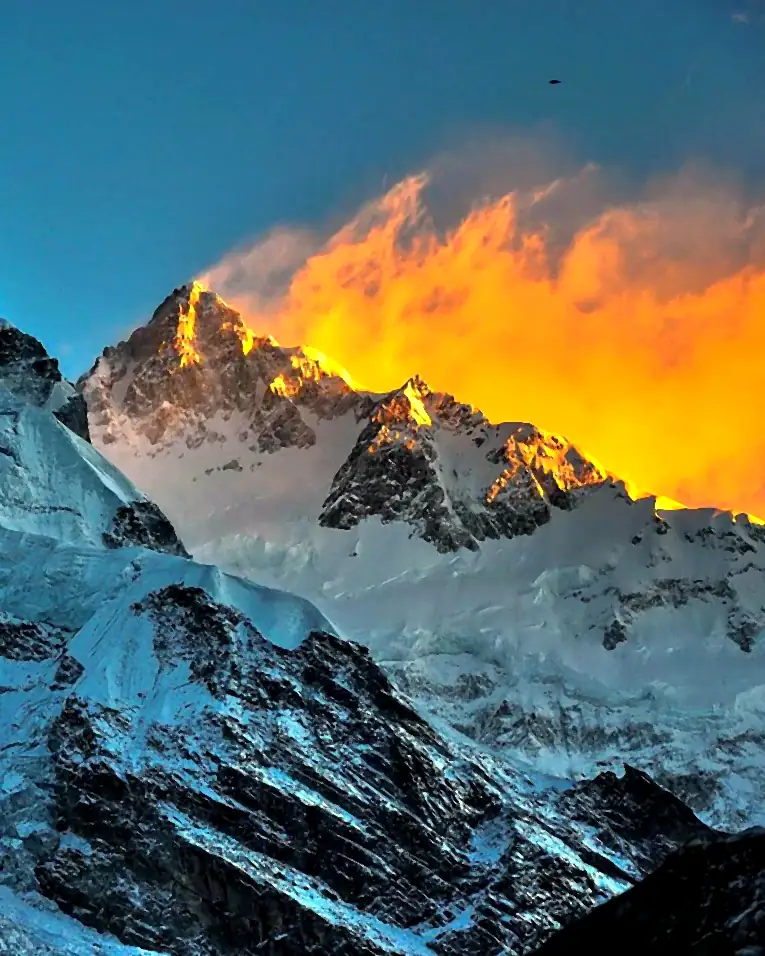
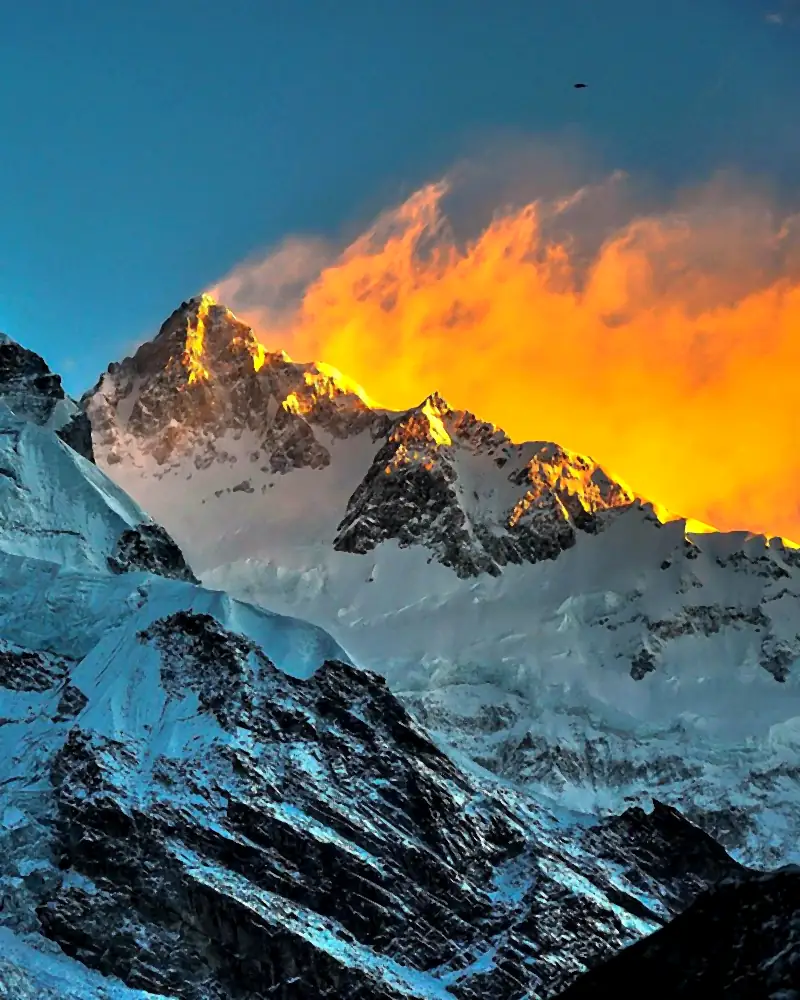
Фото поездок в высоком разрешении для ретины и телефонов
- Исходники семи поездок заменены на те же кадры в 1728–2400 px
  из репозиториев сайтов поездок (Патагония, Бали, Камбоджа, Китай,
  Канченджанга, Тибет, Ко Ронг). Дахаб остаётся 1350 px: больше
  исходника нет.
- Новые версии: 2400 для широких экранов с ретиной, 1200 для
  вертикального кадра на плотных экранах телефонов и для полос первого
  экрана (image-set). Браузер выбирает размер сам, обычные экраны
  получают прежние 1440 и 800.
- Шумоподавление перед снижением качества, чтобы не было блоков
  сжатия; у Бали (исходник пересвечен по резкости) поле soften 0.6
  убирает ореолы вокруг травы и пальм.
- Главы грузятся по мере прокрутки, первая тоже: она ниже первого экрана.
- Превью ссылки пересобрано из новых исходников.

Lighthouse mobile: Performance 91, Accessibility 100.

Claude-Session: https://claude.ai/code/session_01DHSb98UhaQtY4ABkNZchWn

diff --git a/index.html b/index.html
@@ -16,7 +16,7 @@
 <meta property="og:url" content="https://utromaya-code.github.io/travel-hub/">
 <meta property="og:title" content="Путешествия 2026–2027">
 <meta property="og:description" content="Авторские путешествия, 20 лет опыта: особые места, практики в дороге и небольшие группы. Дахаб, Патагония, Бали, Камбоджа, ретрит на Ко Ронге, Китай, Канченджанга и Тибет в сезоне 2026–2027.">
-<meta property="og:image" content="https://utromaya-code.github.io/travel-hub/img/og.jpg?v=454901f4">
+<meta property="og:image" content="https://utromaya-code.github.io/travel-hub/img/og.jpg?v=2a89f9d3">
 <meta property="og:image:width" content="1200">
 <meta property="og:image:height" content="630">
 <meta property="og:image:alt" content="Восемь фото-полос поездок сезона и заголовок «Путешествия 2026–2027»">
@@ -121,7 +121,11 @@ picture{display:contents}
   .spines:hover .spine{flex-grow:.75}
   .spines .spine:hover,.spines .spine:focus-visible{flex-grow:3.2}
 }
-@media (min-width:760px){.spine{background-position:var(--spine-pos,var(--pos))}}
+@media (min-width:760px){
+  .spine{background-position:var(--spine-pos,var(--pos))}
+  /* полоса на широком экране выше карточки, на плотном экране берём кадр 1200 */
+  .spine{background-image:image-set(var(--img) 1x,var(--img2,var(--img)) 2x)}
+}
 @media (min-width:980px){.spine-name{bottom:3.4rem}.spine-month{bottom:1.2rem}}
 /* широкий экран: текст слева, полосы справа во всю высоту экрана до края */
 @media (min-width:980px){
@@ -333,13 +337,13 @@ footer a{color:var(--ink-soft)}
 }
 
 .t-dahab{--img:url("img/dahab-800.webp");--pos:50% 50%;--spine-pos:16% 50%}
-.t-patagonia{--img:url("img/patagonia-800.webp");--pos:30% 50%}
+.t-patagonia{--img:url("img/patagonia-800.webp");--pos:30% 50%;--img2:url("img/patagonia-1200.webp")}
 .t-bali{--img:url("img/bali-800.webp");--pos:50% 55%}
 .t-cambodia{--img:url("img/cambodia-800.webp");--pos:50% 55%}
-.t-kohrong{--img:url("img/kohrong-800.webp");--pos:30% 50%}
-.t-china{--img:url("img/china-800.webp");--pos:50% 50%}
-.t-kanchenjunga{--img:url("img/kanchenjunga-800.webp");--pos:72% 40%}
-.t-tibet{--img:url("img/tibet-800.webp");--pos:50% 35%}
+.t-kohrong{--img:url("img/kohrong-800.webp");--pos:30% 50%;--img2:url("img/kohrong-1200.webp")}
+.t-china{--img:url("img/china-800.webp");--pos:50% 50%;--img2:url("img/china-1200.webp")}
+.t-kanchenjunga{--img:url("img/kanchenjunga-800.webp");--pos:72% 40%;--img2:url("img/kanchenjunga-1200.webp")}
+.t-tibet{--img:url("img/tibet-800.webp");--pos:50% 35%;--img2:url("img/tibet-1200.webp")}
 </style>
 </head>
 <body>
@@ -397,7 +401,7 @@ footer a{color:var(--ink-soft)}
 <main class="trips">
   <article class="trip t-dahab" id="dahab" data-start="2026-11-11" data-end="2026-11-21">
     <a class="trip-photo" href="https://dahab-camp.ru/dahab-yoga-camp.html" target="_blank" rel="noopener" aria-label="Дахаб: открыть сайт поездки">
-      <picture><source media="(max-width:599px)" srcset="img/dahab-800.webp" type="image/webp"><source srcset="img/dahab-1440.webp" type="image/webp"><img src="img/dahab.jpg" class="photo" alt="Фридайверы у троса, сверху сквозь воду бьёт солнце" loading="eager" decoding="async"></picture>
+      <picture><source media="(max-width:599px)" srcset="img/dahab-800.webp 800w" sizes="100vw" type="image/webp"><source srcset="img/dahab-1440.webp 1440w" sizes="100vw" type="image/webp"><img src="img/dahab.jpg" class="photo" alt="Фридайверы у троса, сверху сквозь воду бьёт солнце" loading="lazy" decoding="async"></picture>
       <span class="badges"><span class="stamp">11–21 ноября 2026</span><span class="chips"><span class="flag is-last">Последнее место</span><span class="status" hidden></span></span></span>
       <div class="cap">
         <span class="kicker">Йога-кэмп</span>
@@ -423,7 +427,7 @@ footer a{color:var(--ink-soft)}
   </article>
   <article class="trip t-patagonia" id="patagonia" data-start="2027-01-03" data-end="2027-01-15">
     <a class="trip-photo" href="https://patagonya.ru" target="_blank" rel="noopener" aria-label="Патагония: открыть сайт поездки">
-      <picture><source media="(max-width:599px)" srcset="img/patagonia-800.webp" type="image/webp"><source srcset="img/patagonia-1440.webp" type="image/webp"><img src="img/patagonia.jpg" class="photo" alt="Рассвет над Фицроем и его отражение в горном озере" loading="lazy" decoding="async"></picture>
+      <picture><source media="(max-width:599px)" srcset="img/patagonia-800.webp 800w, img/patagonia-1200.webp 1200w" sizes="100vw" type="image/webp"><source srcset="img/patagonia-1440.webp 1440w, img/patagonia-2400.webp 2400w" sizes="100vw" type="image/webp"><img src="img/patagonia.jpg" class="photo" alt="Рассвет над Фицроем и его отражение в горном озере" loading="lazy" decoding="async"></picture>
       <span class="badges"><span class="stamp">3–15 января 2027</span><span class="chips"><span class="flag is-last">Последнее место</span><span class="status" hidden></span></span></span>
       <div class="cap">
         <span class="kicker">Треккинг</span>
@@ -449,7 +453,7 @@ footer a{color:var(--ink-soft)}
   </article>
   <article class="trip t-bali" id="bali" data-start="2027-02-12" data-end="2027-02-22">
     <a class="trip-photo" href="https://bali-soul.ru" target="_blank" rel="noopener" aria-label="Бали: открыть сайт поездки">
-      <picture><source media="(max-width:599px)" srcset="img/bali-800.webp" type="image/webp"><source srcset="img/bali-1440.webp" type="image/webp"><img src="img/bali.jpg" class="photo" alt="Рисовые террасы Джатилувих у подножия гор" loading="lazy" decoding="async"></picture>
+      <picture><source media="(max-width:599px)" srcset="img/bali-800.webp 800w" sizes="100vw" type="image/webp"><source srcset="img/bali-1440.webp 1440w, img/bali-2400.webp 2400w" sizes="100vw" type="image/webp"><img src="img/bali.jpg" class="photo" alt="Рисовые террасы Джатилувих у подножия гор" loading="lazy" decoding="async"></picture>
       <span class="badges"><span class="stamp">12–22 февраля 2027</span><span class="chips"><span class="flag">Регистрация по ранней цене</span><span class="status" hidden></span></span></span>
       <div class="cap">
         <span class="kicker">Путешествие-практика</span>
@@ -475,7 +479,7 @@ footer a{color:var(--ink-soft)}
   </article>
   <article class="trip t-cambodia" id="cambodia" data-start="2027-02-26" data-end="2027-03-08">
     <a class="trip-photo" href="https://cambodiamoto.ru" target="_blank" rel="noopener" aria-label="Камбоджа: открыть сайт поездки">
-      <picture><source media="(max-width:599px)" srcset="img/cambodia-800.webp" type="image/webp"><source srcset="img/cambodia-1440.webp" type="image/webp"><img src="img/cambodia.jpg" class="photo" alt="Колонна мотоциклов на пыльной дороге, на горизонте башни храма" loading="lazy" decoding="async"></picture>
+      <picture><source media="(max-width:599px)" srcset="img/cambodia-800.webp 800w" sizes="100vw" type="image/webp"><source srcset="img/cambodia-1440.webp 1440w" sizes="100vw" type="image/webp"><img src="img/cambodia.jpg" class="photo" alt="Колонна мотоциклов на пыльной дороге, на горизонте башни храма" loading="lazy" decoding="async"></picture>
       <span class="badges"><span class="stamp">26 февраля – 8 марта 2027</span><span class="chips"><span class="flag">Осталось 5 мест</span><span class="status" hidden></span></span></span>
       <div class="cap">
         <span class="kicker">Мототур</span>
@@ -501,7 +505,7 @@ footer a{color:var(--ink-soft)}
   </article>
   <article class="trip t-kohrong" id="kohrong" data-start="2027-03-08" data-end="2027-03-15">
     <a class="trip-photo" href="https://cambodiamoto.ru/retreat/" target="_blank" rel="noopener" aria-label="Ко Ронг: открыть сайт поездки">
-      <picture><source media="(max-width:599px)" srcset="img/kohrong-800.webp" type="image/webp"><source srcset="img/kohrong-1440.webp" type="image/webp"><img src="img/kohrong.jpg" class="photo" alt="Прозрачная зелёная вода у пляжа Ко Ронга, на берегу деревья" loading="lazy" decoding="async"></picture>
+      <picture><source media="(max-width:599px)" srcset="img/kohrong-800.webp 800w, img/kohrong-1200.webp 1200w" sizes="100vw" type="image/webp"><source srcset="img/kohrong-1440.webp 1440w, img/kohrong-2400.webp 2400w" sizes="100vw" type="image/webp"><img src="img/kohrong.jpg" class="photo" alt="Прозрачная зелёная вода у пляжа Ко Ронга, на берегу деревья" loading="lazy" decoding="async"></picture>
       <span class="badges"><span class="stamp">8–15 марта 2027</span><span class="chips"><span class="status" hidden></span></span></span>
       <div class="cap">
         <span class="kicker">Ретрит</span>
@@ -527,7 +531,7 @@ footer a{color:var(--ink-soft)}
   </article>
   <article class="trip t-china" id="china" data-start="2027-03-23" data-end="2027-04-02">
     <a class="trip-photo" href="https://shangrila-trip.ru" target="_blank" rel="noopener" aria-label="Китай: открыть сайт поездки">
-      <picture><source media="(max-width:599px)" srcset="img/china-800.webp" type="image/webp"><source srcset="img/china-1440.webp" type="image/webp"><img src="img/china.jpg" class="photo" alt="Карстовые горы Яншо на закате" loading="lazy" decoding="async"></picture>
+      <picture><source media="(max-width:599px)" srcset="img/china-800.webp 800w, img/china-1200.webp 1200w" sizes="100vw" type="image/webp"><source srcset="img/china-1440.webp 1440w, img/china-2400.webp 2400w" sizes="100vw" type="image/webp"><img src="img/china.jpg" class="photo" alt="Карстовые горы Яншо на закате" loading="lazy" decoding="async"></picture>
       <span class="badges"><span class="stamp">23 марта – 2 апреля 2027</span><span class="chips"><span class="flag">Регистрация по ранней цене</span><span class="status" hidden></span></span></span>
       <div class="cap">
         <span class="kicker">Авторское путешествие</span>
@@ -553,7 +557,7 @@ footer a{color:var(--ink-soft)}
   </article>
   <article class="trip t-kanchenjunga" id="kanchenjunga" data-start="2027-04-05" data-end="2027-04-20">
     <a class="trip-photo" href="https://kanchenjunga.ru" target="_blank" rel="noopener" aria-label="Канченджанга: открыть сайт поездки">
-      <picture><source media="(max-width:599px)" srcset="img/kanchenjunga-800.webp" type="image/webp"><source srcset="img/kanchenjunga-1440.webp" type="image/webp"><img src="img/kanchenjunga.jpg" class="photo" alt="Канченджанга в огненном свете заката" loading="lazy" decoding="async"></picture>
+      <picture><source media="(max-width:599px)" srcset="img/kanchenjunga-800.webp 800w, img/kanchenjunga-1200.webp 1200w" sizes="100vw" type="image/webp"><source srcset="img/kanchenjunga-1440.webp 1440w, img/kanchenjunga-2400.webp 2400w" sizes="100vw" type="image/webp"><img src="img/kanchenjunga.jpg" class="photo" alt="Канченджанга в огненном свете заката" loading="lazy" decoding="async"></picture>
       <span class="badges"><span class="stamp">5–20 апреля 2027</span><span class="chips"><span class="flag">3 места по ранней цене</span><span class="status" hidden></span></span></span>
       <div class="cap">
         <span class="kicker">Высокогорный трек</span>
@@ -579,7 +583,7 @@ footer a{color:var(--ink-soft)}
   </article>
   <article class="trip t-tibet" id="tibet" data-start="2027-08-12" data-end="2027-08-29">
     <a class="trip-photo" href="https://tibet2027.ru" target="_blank" rel="noopener" aria-label="Тибет: открыть сайт поездки">
-      <picture><source media="(max-width:599px)" srcset="img/tibet-800.webp" type="image/webp"><source srcset="img/tibet-1440.webp" type="image/webp"><img src="img/tibet.jpg" class="photo" alt="Кайлас под синим небом" loading="lazy" decoding="async"></picture>
+      <picture><source media="(max-width:599px)" srcset="img/tibet-800.webp 800w, img/tibet-1200.webp 1200w" sizes="100vw" type="image/webp"><source srcset="img/tibet-1440.webp 1440w, img/tibet-2400.webp 2400w" sizes="100vw" type="image/webp"><img src="img/tibet.jpg" class="photo" alt="Кайлас под синим небом" loading="lazy" decoding="async"></picture>
       <span class="badges"><span class="stamp">12–29 августа 2027</span><span class="chips"><span class="flag">Регистрация по ранней цене</span><span class="status" hidden></span></span></span>
       <div class="cap">
         <span class="kicker">Паломничество</span>

diff --git a/build.py b/build.py
@@ -138,7 +138,11 @@ picture{display:contents}
   .spines:hover .spine{flex-grow:.75}
   .spines .spine:hover,.spines .spine:focus-visible{flex-grow:3.2}
 }
-@media (min-width:760px){.spine{background-position:var(--spine-pos,var(--pos))}}
+@media (min-width:760px){
+  .spine{background-position:var(--spine-pos,var(--pos))}
+  /* полоса на широком экране выше карточки, на плотном экране берём кадр 1200 */
+  .spine{background-image:image-set(var(--img) 1x,var(--img2,var(--img)) 2x)}
+}
 @media (min-width:980px){.spine-name{bottom:3.4rem}.spine-month{bottom:1.2rem}}
 /* широкий экран: текст слева, полосы справа во всю высоту экрана до края */
 @media (min-width:980px){
@@ -453,25 +457,37 @@ def variants(src, name, widths, sizes, attrs, inline=False, jpg=None):
 
 
 def image_css(src):
-    # spinePos: какую часть кадра показывает узкая полоса на широком экране, если не ту же, что pos
-    return "\n".join(f'.t-{t["id"]}{{--img:url("{src(variant(t["id"], 800))}");--pos:{t["pos"]}'
-                     + (f';--spine-pos:{t["spinePos"]}' if t.get("spinePos") else "") + "}" for t in TOURS)
+    # spinePos: какую часть кадра показывает узкая полоса на широком экране, если не ту же, что pos.
+    # --img2: вертикальный кадр 1200 для полос на плотных экранах.
+    rules = []
+    for t in TOURS:
+        i = t["id"]
+        r = f'.t-{i}{{--img:url("{src(variant(i, 800))}");--pos:{t["pos"]}'
+        if (IMG / f"{i}-1200.webp").exists():
+            r += f';--img2:url("{src(i + "-1200.webp")}")'
+        if t.get("spinePos"):
+            r += f';--spine-pos:{t["spinePos"]}'
+        rules.append(r + "}")
+    return "\n".join(rules)
 
 
-def render_photo(t, src, inline, first):
-    # Первая глава грузится сразу, остальные по мере прокрутки.
-    # На узком экране вертикальный кадр 800, тот же файл, что у карточки в ленте.
+def render_photo(t, src, inline):
+    # Все главы ниже первого экрана, поэтому грузятся по мере прокрутки.
+    # На узком экране вертикальный кадр 800/1200, на широком полное фото 1440/2400: браузер берёт по плотности экрана.
     i = t["id"]
-    load = 'loading="eager"' if first else 'loading="lazy"'
-    attrs = f'class="photo" alt="{e(t["alt"])}" {load} decoding="async"'
-    small, big = variant(i, 800), variant(i, 1440)
+    attrs = f'class="photo" alt="{e(t["alt"])}" loading="lazy" decoding="async"'
     if inline:
-        return f'<img src="{src(big)}" {attrs}>'
+        return f'<img src="{src(variant(i, 1440))}" {attrs}>'
+
+    def srcset(widths):
+        return ", ".join(f"{src(f'{i}-{w}.webp')} {w}w" for w in widths if (IMG / f"{i}-{w}.webp").exists())
+
     sources = ""
-    if small.endswith(".webp"):
-        sources += f'<source media="(max-width:599px)" srcset="{src(small)}" type="image/webp">'
-    if big.endswith(".webp"):
-        sources += f'<source srcset="{src(big)}" type="image/webp">'
+    tall, wide = srcset((800, 1200)), srcset((1440, 2400))
+    if tall:
+        sources += f'<source media="(max-width:599px)" srcset="{tall}" sizes="100vw" type="image/webp">'
+    if wide:
+        sources += f'<source srcset="{wide}" sizes="100vw" type="image/webp">'
     return f'<picture>{sources}<img src="{src(i + ".jpg")}" {attrs}></picture>'
 
 
@@ -645,7 +661,7 @@ def render_body(src, inline=False):
     nav_links = "".join(f'<a href="#{t["id"]}"><small>{e(t["month"])}</small> {e(t["name"])}</a>' for t in TOURS)
 
     trips = []
-    for n, t in enumerate(TOURS):
+    for t in TOURS:
         facts = [("Даты", e(t["dates"])), ("Длительность", e(t["days"])), ("Ведут", e(t["leaders"]))]
         if t["group"]:
             facts.append(("Группа", e(t["group"])))
@@ -657,7 +673,7 @@ def render_body(src, inline=False):
         trips.append(f"""
   <article class="trip t-{t['id']}" id="{t['id']}" data-start="{t['start']}" data-end="{t['end']}">
     <a class="trip-photo" href="{e(t['url'])}" target="_blank" rel="noopener" aria-label="{e(t['name'])}: открыть сайт поездки">
-      {render_photo(t, src, inline, n == 0)}
+      {render_photo(t, src, inline)}
       <span class="badges"><span class="stamp">{e(t['dates'])}</span><span class="chips">{flag}<span class="status" hidden></span></span></span>
       <div class="cap">
         <span class="kicker">{e(t['kicker'])}</span>

diff --git a/images.py b/images.py
@@ -3,8 +3,9 @@
 
     python3 images.py
 
-  img/<id>.jpg (фото поездки, 1440 px)  -> img/<id>-1440.webp  для широких экранов
-                                         -> img/<id>-800.webp   вертикальный кадр 4:5 по точке pos
+  img/<id>.jpg (фото поездки, до 2400 px) -> img/<id>-1440.webp, -2400.webp  для широких экранов
+                                            (2400 только если исходник от 1800 px)
+                                          -> img/<id>-800.webp, -1200.webp  вертикальный кадр 4:5 по точке pos
                                             из content.json: фото-полосы и главы на телефоне
   gallery.items: img/<img>.jpg           -> img/<img>-360/640/960.webp в пропорции ratio по точке pos
   about.team:    img/<img>.jpg           -> img/<img>-400.webp, -800.webp, кадр 4:5 по точке pos
@@ -34,9 +35,13 @@ def pos(item):
     return [float(v.rstrip("%")) / 100 for v in item.get("pos", "50% 50%").split()]
 
 
-def webp(im, out, q, budget=None):
-    """WebP; если файл тяжелее budget КБ (шумные снимки с телефона), качество снижается до 50."""
+def webp(im, out, q, budget=None, smooth=False):
+    """WebP; если файл тяжелее budget КБ, сначала (при smooth) лёгкое шумоподавление,
+    потом качество снижается до 50."""
     im.save(out, "WEBP", quality=q, method=6)
+    if smooth and budget and out.stat().st_size > budget * 1024:
+        im = im.filter(ImageFilter.MedianFilter(3))
+        im.save(out, "WEBP", quality=q, method=6)
     while budget and out.stat().st_size > budget * 1024 and q > 50:
         q -= 4
         im.save(out, "WEBP", quality=q, method=6)
@@ -81,18 +86,29 @@ def sized(im, width):
 
 def tour_images():
     for t in C["tours"]:
-        im = sized(source(t["id"]), 1440)
-        out = IMG / f"{t['id']}-1440.webp"
-        im.save(out, "WEBP", quality=70, method=6)
-        if out.stat().st_size > 200 * 1024:
+        base = sized(source(t["id"]), 2400)
+        # soften: у пересвеченного по резкости исходника ореолы вокруг мелких деталей,
+        # лёгкое размытие убирает их; тогда шумоподавление широких версий не нужно, а запас по весу больше
+        soft = t.get("soften")
+        if soft:
+            base = base.filter(ImageFilter.GaussianBlur(soft))
+        # Широкие версии: 1440 для обычных экранов, 2400 для ретины, если исходник это позволяет
+        for w, q, budget in ((1440, 70, 200), (2400, 68, 420)):
+            out = IMG / f"{t['id']}-{w}.webp"
+            if w == 2400 and base.width < 1800:
+                continue
             # шумный кадр: лёгкое шумоподавление вместо грубого сжатия, на экране разница не видна
-            im = im.filter(ImageFilter.MedianFilter(3))
-        webp(im, out, 70, 200)
+            webp(sized(base, w), out, q, (budget * 3 // 2) if soft else budget, smooth=not soft)
         # Кадр 4:5 режется там же, где его показал бы background-position: pos,
         # поэтому то же значение pos даёт на нём ту же картинку, что и на полном фото.
-        cw = min(im.width, round(im.height * 4 / 5))
-        left = round((im.width - cw) * pos(t)[0])
-        webp(sized(im.crop((left, 0, left + cw, im.height)), 800), IMG / f"{t['id']}-800.webp", 66, 90)
+        # 800 для полос и карточек, 1200 для телефонов с плотным экраном, если высоты исходника хватает.
+        cw = min(base.width, round(base.height * 4 / 5))
+        left = round((base.width - cw) * pos(t)[0])
+        tall = base.crop((left, 0, left + cw, base.height))
+        for w, budget in ((800, 90), (1200, 160)):
+            if w == 1200 and tall.width < 1000:
+                continue
+            webp(sized(tall, w), IMG / f"{t['id']}-{w}.webp", 66, budget, smooth=True)
 
 
 def gallery_images():

diff --git a/README.md b/README.md
@@ -15,7 +15,7 @@
 
 ## Как поменять текст или добавить поездку
 
-1. Правка в `content.json` (новая поездка = новый блок в `tours`, фото кладётся в `img/<id>.jpg` шириной 1440 px).
+1. Правка в `content.json` (новая поездка = новый блок в `tours`, фото кладётся в `img/<id>.jpg` шириной от 1920 px, лучше 2400: иначе на ретина-экранах оно будет мягким).
 2. Если поменялись фото, `pos`, снимки галереи или команды, текст превью `og`: `python3 images.py`.
 3. `python3 build.py`
 4. Коммит и пуш.
@@ -55,7 +55,7 @@
 ## Картинки
 
 - Все фото проходят одну цветокоррекцию (`grade` в `images.py`), чтобы снимки с разных камер и поездок смотрелись одной серией.
-- Фото поездки отдаются в двух размерах: на телефоне вертикальный кадр около 800 px (`<id>-800.webp`), на широком экране полное фото 1440 px (`<id>-1440.webp`). Вертикальный кадр вырезается по точке `pos`, поэтому после смены `pos` нужен `images.py`. Слишком шумные кадры (тяжелее 200 КБ) слегка сглаживаются.
+- Фото поездки отдаются в нескольких размерах, браузер выбирает по ширине и плотности экрана: на телефоне вертикальный кадр 4:5 (`<id>-800.webp`, `<id>-1200.webp`), на широком экране полное фото (`<id>-1440.webp`, `<id>-2400.webp` для ретины). Версии 1200 и 2400 появляются, только если исходник достаточно большой. Вертикальный кадр вырезается по точке `pos`, поэтому после смены `pos` нужен `images.py`. Шумные кадры слегка сглаживаются; если исходник пересвечен по резкости (ореолы вокруг травы и листьев), у поездки ставится `soften` (например `0.6`), как у Бали.
 - Снимки галереи: 360/640/960 px, команда: 400/800 px, браузер берёт нужный размер сам.
 - Фото-полосы и первая глава грузятся сразу, остальные фото по мере прокрутки.
 - Если WebP для поездки ещё нет, страница берёт исходный JPEG, так что новая поездка не сломается.
